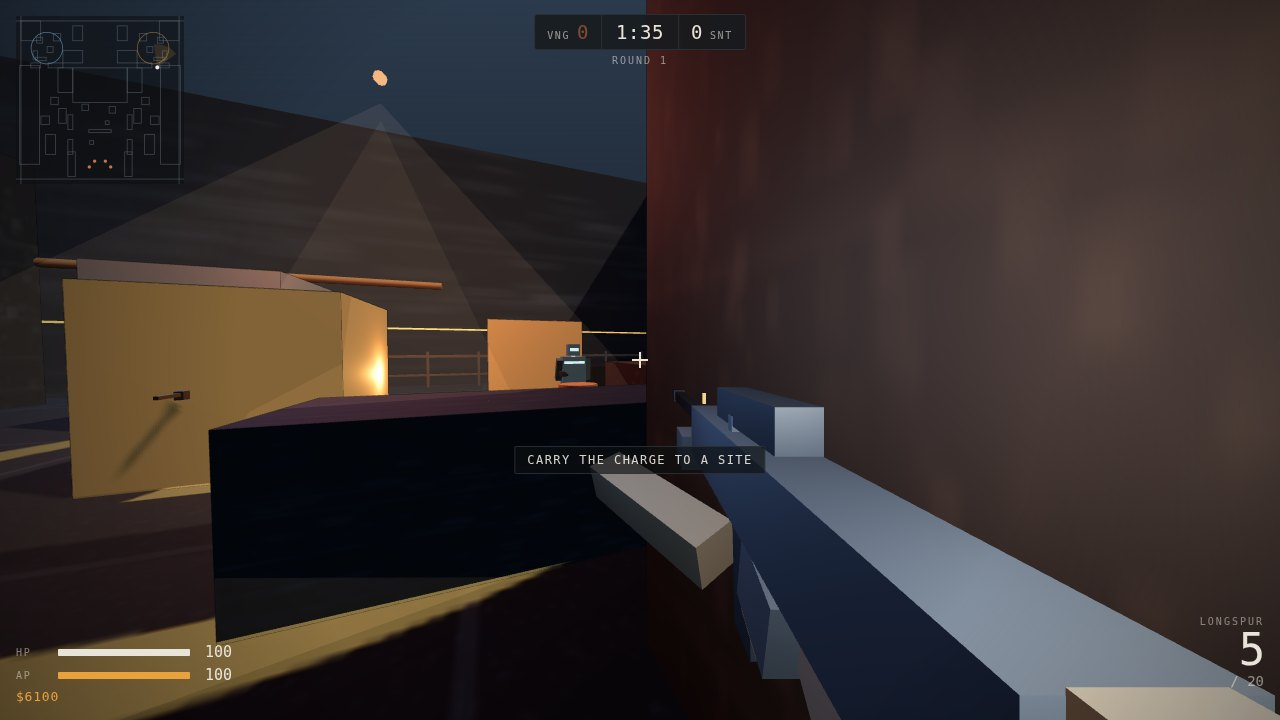
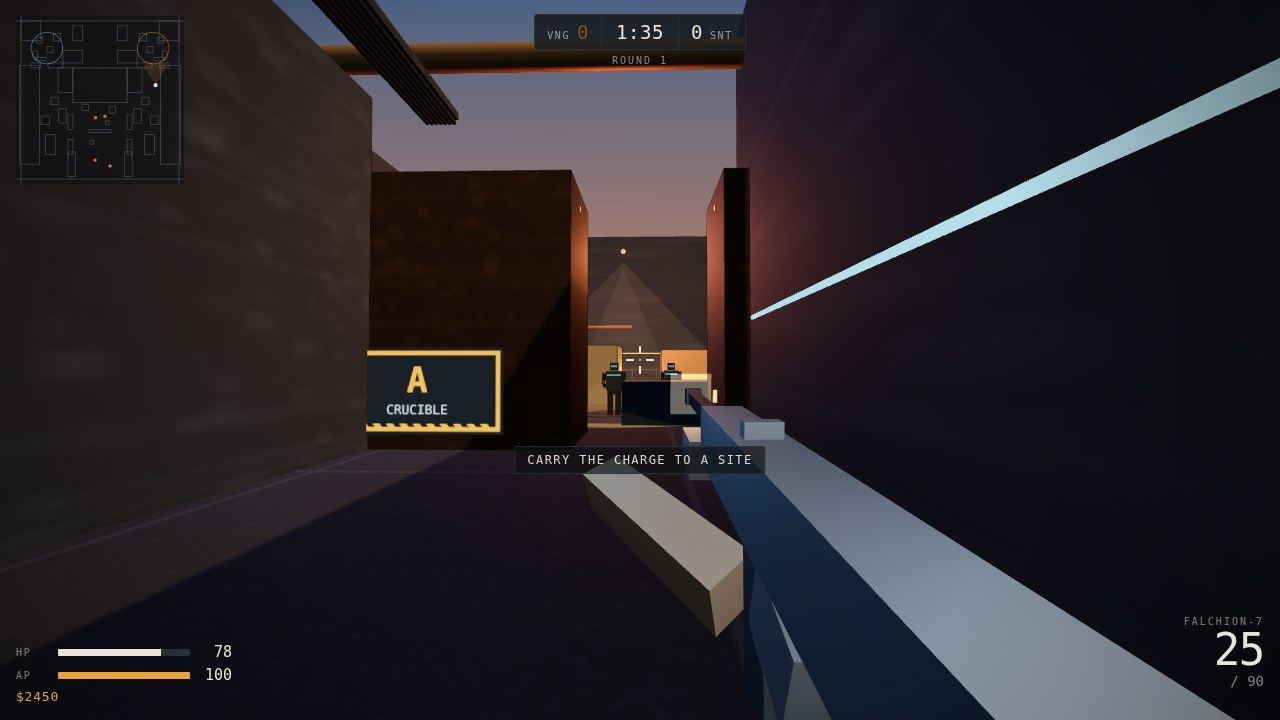
Give the foundry a dusk palette, painted signage and readable silhouettes
Sky gradient, warmer key light and lamp falloff put the map in one palette;
FOUNDRY NINE and the site letters name the lanes; character bodies go dark so
the team colour sits on the markers and a figure stops reading as a crate.

diff --git a/game/src/render/level.js b/game/src/render/level.js
@@ -64,7 +64,7 @@ function makeMaterials() {
   }, 3);
 
   const floorTex = tileTexture((g) => {
-    g.fillStyle = '#2a3036';
+    g.fillStyle = '#39404a';
     g.fillRect(0, 0, 256, 256);
     for (let i = 0; i < 3200; i += 1) {
       g.fillStyle = `rgba(190,200,212,${Math.random() * 0.06})`;
@@ -115,6 +115,61 @@ function siteMarkerTexture(letter, color) {
   const tex = new THREE.CanvasTexture(c);
   tex.colorSpace = THREE.SRGBColorSpace;
   return tex;
+}
+
+// Painted signage. A named wall is the cheapest way to make a lane read as a place, and it gives
+// the judge the map's identity in the first screenshot instead of leaving walls anonymous.
+function signMesh(text, sub, w, h, accent) {
+  const c = document.createElement('canvas');
+  c.width = 512;
+  c.height = 256;
+  const g = c.getContext('2d');
+  g.fillStyle = '#232a2f';
+  g.fillRect(0, 0, 512, 256);
+  g.strokeStyle = accent;
+  g.lineWidth = 12;
+  g.strokeRect(16, 16, 480, 224);
+  g.fillStyle = accent;
+  g.textAlign = 'center';
+  let size = 104;
+  g.font = `bold ${size}px ui-monospace, monospace`;
+  while (g.measureText(text).width > 436 && size > 24) {
+    size -= 6;
+    g.font = `bold ${size}px ui-monospace, monospace`;
+  }
+  g.fillText(text, 256, sub ? 132 : 168);
+  if (sub) {
+    g.fillStyle = '#b9c2c9';
+    g.font = '38px ui-monospace, monospace';
+    g.fillText(sub, 256, 196);
+  }
+  g.fillStyle = accent;
+  for (let x = 16; x < 496; x += 40) {
+    g.beginPath();
+    g.moveTo(x, 240);
+    g.lineTo(x + 20, 240);
+    g.lineTo(x + 8, 224);
+    g.lineTo(x - 12, 224);
+    g.fill();
+  }
+  const tex = new THREE.CanvasTexture(c);
+  tex.colorSpace = THREE.SRGBColorSpace;
+  return new THREE.Mesh(new THREE.PlaneGeometry(w, h), new THREE.MeshBasicMaterial({ map: tex }));
+}
+
+const SIGNS = [
+  ['FOUNDRY NINE', 'CRUCIBLE · COOLANT', 9.5, 4.75, 0, 6.1, 1.04, 0, '#e9a13b'],
+  ['A', 'CRUCIBLE', 3.4, 1.7, 18, 1.15, -12.96, 0, '#e9a13b'],
+  ['B', 'COOLANT', 3.4, 1.7, -18, 1.15, -12.96, 0, '#6fd0ff'],
+];
+
+function addSigns(group) {
+  for (const [text, sub, w, h, x, y, z, rot, accent] of SIGNS) {
+    const sign = signMesh(text, sub, w, h, accent);
+    sign.position.set(x, y, z);
+    sign.rotation.y = rot;
+    group.add(sign);
+  }
 }
 
 // Detail that sells the plant: barrels, stacked crates, cable trays and railings along the lanes.
@@ -281,5 +336,6 @@ export function buildLevel(scene) {
 
   scene.add(group);
   addDetail(group, mats);
+  addSigns(group);
   return { group, materials: mats, boxGeo };
 }

diff --git a/game/src/render/scene.js b/game/src/render/scene.js
@@ -4,17 +4,19 @@
 import * as THREE from 'three';
 import { MAP } from '../map.js';
 
-// A vertical gradient rather than a flat colour: the foundry sits under a dusk sky, and the eye
-// reads depth from that band even where the walls leave it visible.
+// A vertical gradient rather than a flat colour: the foundry sits at dusk, and the warm band at the
+// horizon is what makes the far end of a lane read as distance rather than as a dark wall.
 function skyGradient() {
   const c = document.createElement('canvas');
   c.width = 4;
   c.height = 256;
   const g = c.getContext('2d');
   const grad = g.createLinearGradient(0, 0, 0, 256);
-  grad.addColorStop(0, '#2b3a4c');
-  grad.addColorStop(0.45, '#1d2733');
-  grad.addColorStop(1, '#0d1114');
+  grad.addColorStop(0, '#4d6285');
+  grad.addColorStop(0.34, '#9d7a72');
+  grad.addColorStop(0.52, '#d98a58');
+  grad.addColorStop(0.74, '#6b4636');
+  grad.addColorStop(1, '#14171a');
   g.fillStyle = grad;
   g.fillRect(0, 0, 4, 256);
   const tex = new THREE.CanvasTexture(c);
@@ -57,7 +59,7 @@ export function createScene(host) {
   renderer.shadowMap.type = THREE.PCFShadowMap;
   renderer.outputColorSpace = THREE.SRGBColorSpace;
   renderer.toneMapping = THREE.ACESFilmicToneMapping;
-  renderer.toneMappingExposure = 1.28;
+  renderer.toneMappingExposure = 1.34;
   host.appendChild(renderer.domElement);
 
   const scene = new THREE.Scene();
@@ -69,9 +71,9 @@ export function createScene(host) {
 
   const hemi = new THREE.HemisphereLight(0xbcd2e6, 0x3a2f26, 1.35);
   scene.add(hemi);
-  scene.add(new THREE.AmbientLight(0x8fa2b4, 0.35));
+  scene.add(new THREE.AmbientLight(0x9aacbe, 0.55));
 
-  const key = new THREE.DirectionalLight(0xffe0bb, 2.15);
+  const key = new THREE.DirectionalLight(0xffcf9c, 2.45);
   key.position.set(26, 42, 18);
   key.castShadow = true;
   key.shadow.mapSize.set(2048, 2048);
@@ -91,7 +93,7 @@ export function createScene(host) {
 
   for (let i = 0; i < MAP.lamps.length; i += 1) {
     const lamp = MAP.lamps[i];
-    const light = new THREE.PointLight(lamp.color, lamp.intensity * 2.1, lamp.distance, 1.85);
+    const light = new THREE.PointLight(lamp.color, lamp.intensity * 3.4, lamp.distance, 1.75);
     light.position.set(lamp.x, lamp.y, lamp.z);
     scene.add(light);
     const bulb = new THREE.Mesh(

diff --git a/game/src/render/characters.js b/game/src/render/characters.js
@@ -3,9 +3,7 @@
 
 import * as THREE from 'three';
 
-const TEAM_COLOUR = { atk: 0x9a5230, def: 0x3f5a6b };
-const TEAM_DARK = { atk: 0x53301f, def: 0x2b3d49 };
-const VISOR = { atk: 0xffb06a, def: 0x7fe0ff };
+const TEAM_COLOUR = { atk: 0xd4692f, def: 0x2f7f86 };
 
 function part(geo, mat, x, y, z) {
   const m = new THREE.Mesh(geo, mat);
@@ -16,9 +14,11 @@ function part(geo, mat, x, y, z) {
 
 export function createCharacterRig(actor) {
   const group = new THREE.Group();
-  const body = new THREE.MeshStandardMaterial({ color: TEAM_COLOUR[actor.team], roughness: 0.72, metalness: 0.12 });
-  const dark = new THREE.MeshStandardMaterial({ color: TEAM_DARK[actor.team], roughness: 0.8, metalness: 0.1 });
-  const visor = new THREE.MeshBasicMaterial({ color: VISOR[actor.team] });
+  // A dark body with the team's own colour only on the markers: at range a figure has to read as a
+  // person against tan crates, and a body painted in the accent colour reads as another crate.
+  const body = new THREE.MeshStandardMaterial({ color: 0x24282d, roughness: 0.78, metalness: 0.16 });
+  const dark = new THREE.MeshStandardMaterial({ color: 0x14171a, roughness: 0.85, metalness: 0.1 });
+  const visor = new THREE.MeshBasicMaterial({ color: TEAM_COLOUR[actor.team] });
 
   const torso = part(new THREE.BoxGeometry(0.52, 0.62, 0.3), body, 0, 1.16, 0);
   const hips = part(new THREE.BoxGeometry(0.44, 0.24, 0.28), dark, 0, 0.82, 0);
@@ -46,7 +46,7 @@ export function createCharacterRig(actor) {
 }
 
 // Reads the actor and poses the rig. No allocation: every value lands on existing objects.
-export function poseCharacter(rig, actor, time) {
+export function poseCharacter(rig, actor) {
   const parts = rig.userData.parts;
   rig.position.set(actor.pos.x, actor.pos.y, actor.pos.z);
   rig.rotation.y = actor.yaw;
@@ -73,10 +73,7 @@ export function poseCharacter(rig, actor, time) {
   parts.gun.rotation.x = -actor.pitch * 0.9;
   parts.armR.rotation.x = -0.4 - actor.pitch * 0.4;
 
-  const blind = actor.blind > 0;
-  void blind;
-  parts.face.material.color.setHex(VISOR[actor.team]);
-  void time;
+  parts.face.material.color.setHex(TEAM_COLOUR[actor.team]);
 }
 
 export function setCharacterHidden(rig, hidden) {

diff --git a/game/src/dev.js b/game/src/dev.js
@@ -12,11 +12,12 @@ export function installDev(ctx) {
 
   window.__blk = {
     sim,
+    scene: ctx.scene,
     play() { begin(); },
     live() { sim.match.phase = 'live'; sim.match.clock = MATCH.roundTime; begin(); },
     freeze() { sim.match.phase = 'freeze'; sim.match.clock = MATCH.freezeTime; },
     hideStart() { document.getElementById('start').classList.add('off'); },
-    hideBanner() { const b = document.getElementById('banner'); if (b) b.className = ''; },
+    hideBanner() { const b = document.getElementById('banner'); if (b) b.style.display = 'none'; },
     armory() { ctx.buy?.open(); },
     aim(yaw, pitch) { p.yaw = yaw; p.pitch = pitch; ctx.input.state.yaw = yaw; ctx.input.state.pitch = pitch; },
     warp(x, z, y = 0) { p.pos.x = x; p.pos.z = z; p.pos.y = y; p.vel.x = 0; p.vel.y = 0; p.vel.z = 0; },

diff --git a/game/src/map.js b/game/src/map.js
@@ -10,8 +10,8 @@ export const MAP = {
   name: 'Foundry Nine',
   subtitle: 'Crucible · Coolant',
   bounds: { minX: -34, maxX: 34, minZ: -34, maxZ: 34 },
-  sky: 0x1a222a,
-  fog: { color: 0x1e262e, near: 22, far: 78 },
+  sky: 0x4d6285,
+  fog: { color: 0x7a5a4a, near: 16, far: 66 },
 
   spawns: {
     atk: [

diff --git a/game/src/main.js b/game/src/main.js
@@ -182,7 +182,7 @@ function syncCamera(dt) {
     const rig = rigs.get(a.id);
     if (!rig) continue;
     rig.visible = a.alive;
-    if (a.alive) poseCharacter(rig, a, sim.time);
+    if (a.alive) poseCharacter(rig, a);
   }
 
   const def = activeDef(p);
